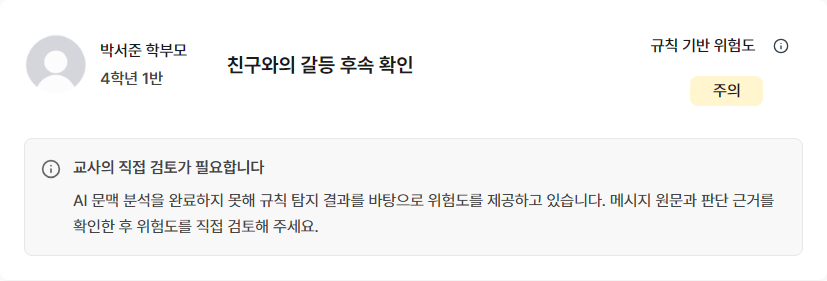
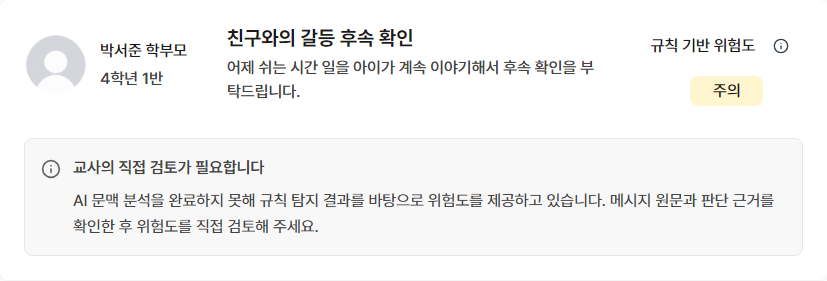
fix: 메시지 상세 상단 문의 요약 복원 (#91)

Changed region(s): [[0.2721, 0.1993, 0.7255, 0.3701], [0.2721, 0.0854, 0.5139, 0.1708]]

diff --git a/src/features/message/components/MessageContextCard.tsx b/src/features/message/components/MessageContextCard.tsx
@@ -27,7 +27,7 @@ export function MessageContextCard({ thread, compact = false }: MessageContextCa
       </div>
       <div className="board-card-topic">
         <strong>{compact ? thread.title : thread.conversationSummary?.topic ?? thread.title}</strong>
-        {!compact && summary ? <span>{summary}</span> : null}
+        {summary ? <span>{summary}</span> : null}
       </div>
       <div className="board-card-meta-group">
         <div className="board-card-meta">

diff --git a/docs/teacher-reply-api.md b/docs/teacher-reply-api.md
@@ -4,7 +4,7 @@
 
 Low·Medium은 메시지 상세에서 답변 작성 버튼을 누르면 대화 아래에 기존 작성 패널을 엽니다. `/response` 주소와 뒤로 가기·이어쓰기는 유지하며, 원문·요약 표시와 열람 권한은 대화 화면의 기존 정책을 따릅니다. High는 별도 작성 화면을 유지합니다. 화면 배치만 변경하며 초안 조회·생성·저장·전송 API, 안전 잠금, 답변 차례, 1500자 제한과 최종 전송 확인은 동일합니다.
 
-문의 상세의 상단 카드는 발신자·원래 문의 제목·기존 분석 상태를 표시하며, 자동 요약과 최근 수신 시각은 생략합니다. 별도 답변 작성 화면의 카드는 기존 표시를 유지합니다. 별도의 대화 제목·표시 안내 툴팁 없이, 대화창 하단에서 답변 작성 버튼 왼쪽에 배치한 “AI 분석 근거” Outline 버튼은 현재 화면의 Drawer를 엽니다. 답변 편집 중에는 같은 버튼을 선생님 답변 헤더의 닫기 버튼 왼쪽으로 옮기고 채팅 하단에서는 제거합니다. 편집기를 닫으면 하단으로 돌아오며, 기존 열림 상태와 같은 클릭 핸들러를 재사용해 한 번만 표시합니다. 답변 제한 상태에서는 기존 하단 위치를 유지합니다. 개폐 자체로 API를 호출하거나 초안을 초기화하지 않습니다. 1600px 이상은 본문 옆 패널, 그 미만은 포커스를 유지하는 Drawer, 모바일은 전체 너비를 사용합니다. 규정 상세는 기존 모달로 확인합니다. 분석 상태가 ready가 아니면 하단 분석 근거 버튼을 비활성화하며, 원문 열람과 답변 잠금 정책은 변경하지 않습니다. High·Emergency의 안전 정책은 유지합니다.
+문의 상세의 상단 카드는 발신자·원래 문의 제목·기존 분석 상태를 표시하며, API에서 제공한 문의 요약은 제목 아래에 표시합니다. 요약이 없는 서버 문의에는 요약 문구를 임의로 채우지 않으며, 최근 수신 시각은 생략합니다. 별도 답변 작성 화면의 카드는 기존 표시를 유지합니다. 별도의 대화 제목·표시 안내 툴팁 없이, 대화창 하단에서 답변 작성 버튼 왼쪽에 배치한 “AI 분석 근거” Outline 버튼은 현재 화면의 Drawer를 엽니다. 답변 편집 중에는 같은 버튼을 선생님 답변 헤더의 닫기 버튼 왼쪽으로 옮기고 채팅 하단에서는 제거합니다. 편집기를 닫으면 하단으로 돌아오며, 기존 열림 상태와 같은 클릭 핸들러를 재사용해 한 번만 표시합니다. 답변 제한 상태에서는 기존 하단 위치를 유지합니다. 개폐 자체로 API를 호출하거나 초안을 초기화하지 않습니다. 1600px 이상은 본문 옆 패널, 그 미만은 포커스를 유지하는 Drawer, 모바일은 전체 너비를 사용합니다. 규정 상세는 기존 모달로 확인합니다. 분석 상태가 ready가 아니면 하단 분석 근거 버튼을 비활성화하며, 원문 열람과 답변 잠금 정책은 변경하지 않습니다. High·Emergency의 안전 정책은 유지합니다.
 
 대화 영역은 최소 240px에서 내용에 맞춰 늘어나며 페이지 전체를 스크롤합니다. 마지막 메시지와 답변 CTA 간격은 24px입니다. 답변 작성 참고사항은 작성 패널 아래에서 기본 접힘으로 표시하고, 펼치면 기존 주의 포인트·작성 가이드·RAG 근거를 확인할 수 있습니다. 펼침 여부는 초안과 API 처리에 영향을 주지 않습니다. 답변 필요 문구(하단 미답변 배지 생략)와 제공된 분석의 AI 판단 안내는 왼쪽에, 분석 근거·답변 작성 버튼은 오른쪽에 12px 간격으로 나란히 배치합니다. 하단 분석 근거·답변 작성은 공통 Button md(최소 47px, 16px) 규격과 동일한 너비를 사용합니다. 편집기 헤더의 분석 근거·닫기도 md와 12px 간격을 사용하며, 620px 이하에서는 헤더 제목 아래로 버튼 그룹을 배치합니다. 모바일에서는 안내 아래에 두 버튼을 같은 높이로 배치합니다. 분석 대기·진행 중에는 하단의 중복 상태 문구를 생략하되 기존 답변 제한 안내는 유지합니다. 분석 실패는 하단에도 명시적으로 표시하며, 결과가 제공되면 AI 판단 안내의 툴팁으로 상세 설명을 제공합니다. 입력창 바로 아래에는 14px 검토 안내를 표시하며, 실제 AI 생성 표시와 비어 있지 않은 AI 탭 초안이 있을 때만 AI 초안 검토 문구를 사용합니다. 직접 작성·빈 초안·공식 템플릿은 일반 검토 안내를 표시합니다. 분석 실패·답변 생성 실패·안전 잠금 안내는 기존 분리된 상태를 유지합니다.
 

diff --git a/docs/issue-91-neutral-risk-notice/README.md b/docs/issue-91-neutral-risk-notice/README.md
@@ -21,7 +21,7 @@
 
 ## 변경 후 화면
 
-아래는 로컬 mock 데이터로 촬영한 실제 Chromium 화면이다. 예시 데이터의 실제 위험도는 `주의`이며, `일반`도 별도 테스트로 확인했다. 변경 전 화면 캡처는 없으며 위 비교표는 기존 코드 기준이다.
+아래는 로컬 mock 데이터로 촬영한 실제 Chromium 화면이다. 예시 데이터의 실제 위험도는 `주의`이며, `일반`도 별도 테스트로 확인했다. 변경 전 화면 캡처는 없으며 위 비교표는 기존 코드 기준이다. 후속 요청에 따라 제목 아래 문의 요약을 복원한 최종 화면으로 갱신했다.
 
 ### 데스크톱
 
@@ -55,3 +55,9 @@
 - 공통 컴포넌트의 교사 전용 표시 옵션으로 적용하여 학부모·관리자의 기존 표시는 유지한다.
 - 실제 운영 서버 응답·로그인, 운영 배포 화면, 모든 브라우저의 네이티브 확대, 전체 회귀 테스트는 이번에 실행하지 않았다.
 - PR은 자동으로 머지하지 않는다.
+
+## 후속 요청: 상세 상단 문의 요약 복원
+
+상세 카드의 `compact` 모드에서도 기존 `conversationSummary.text`를 문의 제목 아래에 다시 표시한다. 서버의 목록 `aiSummary` 매핑을 재사용하며, API 호출이나 대화의 메시지별 완충 요약 정책은 변경하지 않는다. 서버 요약이 없으면 빈 내용을 임의로 채우지 않는다. 최근 수신 시각의 표시 조건은 기존과 같다.
+
+복원 후 build·lint·Playwright TypeScript 검사 및 기존 관련 테스트 8개(안내/레이아웃 4개, HTTP 메시지별 요약/실패 안내/원문 확인 4개)가 통과했다. 데스크톱·모바일 카드 캡처에서 요약 표시와 줄바꿈을 확인했다. 운영 API 검증은 포함하지 않는다.
